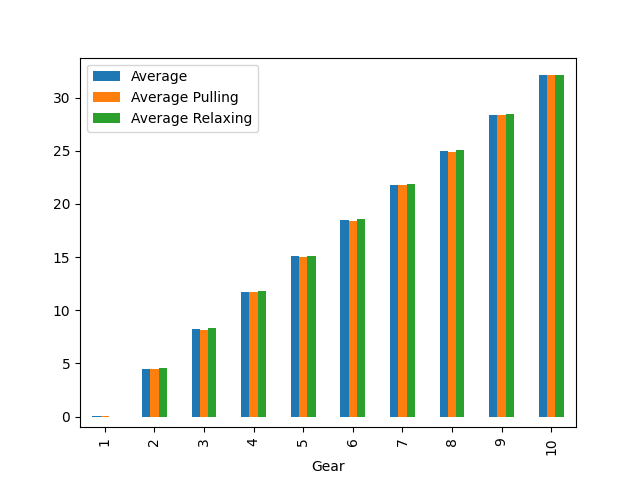
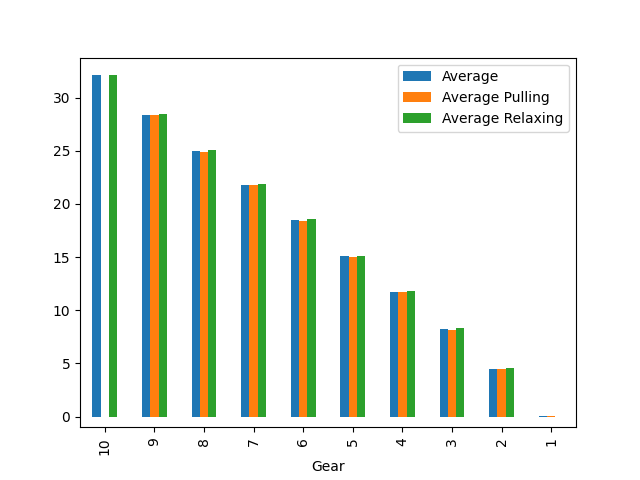
More charts

diff --git a/1-analyze_shifter.py b/1-analyze_shifter.py
@@ -67,9 +67,9 @@ def analyze(input_file, out_folder):
 
   # Plot Averages
 
-  gear_averages = df.groupby(["Gear"])["NormalizedMeasurement"].mean().rename("Average")
-  pulling_gear_averages = df[df["Direction"] == 'Pulling'].groupby(["Gear"])["NormalizedMeasurement"].mean().rename("Average Pulling")
-  relaxing_gear_averages = df[df["Direction"] == 'Relaxing'].groupby(["Gear"])["NormalizedMeasurement"].mean().rename("Average Relaxing")
+  gear_averages = df.groupby(["Gear"], sort=False)["NormalizedMeasurement"].mean().rename("Average")
+  pulling_gear_averages = df[df["Direction"] == 'Pulling'].groupby(["Gear"], sort=False)["NormalizedMeasurement"].mean().rename("Average Pulling")
+  relaxing_gear_averages = df[df["Direction"] == 'Relaxing'].groupby(["Gear"], sort=False)["NormalizedMeasurement"].mean().rename("Average Relaxing")
 
   avgs = pd.DataFrame([gear_averages, pulling_gear_averages, relaxing_gear_averages]).T
 
@@ -80,9 +80,9 @@ def analyze(input_file, out_folder):
 
   # Plot Stdev
 
-  gear_stdev = df.groupby(["Gear"])["NormalizedMeasurement"].std().rename("Std Dev")
-  pulling_gear_stdev = df[df["Direction"] == 'Pulling'].groupby(["Gear"])["NormalizedMeasurement"].std().rename("Std Dev Pulling")
-  relaxing_gear_stdev = df[df["Direction"] == 'Relaxing'].groupby(["Gear"])["NormalizedMeasurement"].std().rename("Std Dev Relaxing")
+  gear_stdev = df.groupby(["Gear"], sort=False)["NormalizedMeasurement"].std().rename("Std Dev")
+  pulling_gear_stdev = df[df["Direction"] == 'Pulling'].groupby(["Gear"], sort=False)["NormalizedMeasurement"].std().rename("Std Dev Pulling")
+  relaxing_gear_stdev = df[df["Direction"] == 'Relaxing'].groupby(["Gear"], sort=False)["NormalizedMeasurement"].std().rename("Std Dev Relaxing")
 
   avgs = pd.DataFrame([gear_stdev, pulling_gear_stdev, relaxing_gear_stdev]).T
 
@@ -91,8 +91,7 @@ def analyze(input_file, out_folder):
   plt.savefig(f"{out_folder}/meas_stdev.png")
 
   # Diff between relaxing and pulling averages
-  relaxing_pulling_diffs = df[df["Direction"] == "Relaxing"].groupby(["Gear"])["NormalizedMeasurement"].mean() \
-                          - df[df["Direction"] == "Pulling"].groupby(["Gear"])["NormalizedMeasurement"].mean()
+  relaxing_pulling_diffs = relaxing_gear_averages - pulling_gear_averages
 
   plt.clf()
   relaxing_pulling_diffs.plot.bar()
@@ -103,7 +102,7 @@ def analyze(input_file, out_folder):
   # Besides, here we only care about differences, not absolute values
   md = df.groupby(["Run"], sort=False)
 
-  gear_step_df = md.apply(lambda d: pd.DataFrame(dict(
+  shifts_df = md.apply(lambda d: pd.DataFrame(dict(
     [(header, d[header].iloc[:-1])
      for header in row_headers[:first_gear_row_index]
      if header != "Run"]+
@@ -115,20 +114,49 @@ def analyze(input_file, out_folder):
 
   #TODO: diff between pulling and relaxing, average pulling, average relaxing, 95% confidence interval
 
-  gb = gear_step_df.groupby(["GearStep"], sort=False)["Shift"].mean()
+  # Plot Shift Averages
 
-  # Calculate averages
-  averages = gear_step_df.groupby(["GearStep"], sort=False)["Shift"].mean()
-  stdev = gear_step_df.groupby(["GearStep"], sort=False)["Shift"].std()
-  print(averages[1:-1])
-  cable_pull = np.mean(averages[1:-1])
+  shift_averages = shifts_df.groupby(["GearStep"], sort=False)["Shift"].mean()
+  pulling_shift_averages = shifts_df[shifts_df["Direction"] == 'Pulling'].groupby(["GearStep"], sort=False)["Shift"].mean().rename("Average Pulling")
+  relaxing_shift_averages = shifts_df[shifts_df["Direction"] == 'Relaxing'].groupby(["GearStep"], sort=False)["Shift"].mean().rename("Average Relaxing")
+
+  shift_avgs_df = pd.DataFrame([shift_averages, pulling_shift_averages, relaxing_shift_averages]).T
+
+  plt.clf()
+  shift_avgs_df.plot.bar()
+  plt.savefig(f"{out_folder}/shift_avgs.png")
+
+  # Plot Shift Std Dev
+
+  shift_stdev = shifts_df.groupby(["GearStep"], sort=False)["Shift"].std()
+  pulling_shift_stdev = shifts_df[shifts_df["Direction"] == 'Pulling'].groupby(["GearStep"], sort=False)["Shift"].std().rename("Average Pulling")
+  relaxing_shift_stdev = shifts_df[shifts_df["Direction"] == 'Relaxing'].groupby(["GearStep"], sort=False)["Shift"].std().rename("Average Relaxing")
+
+  shift_stdevs_df = pd.DataFrame([shift_stdev, pulling_shift_stdev, relaxing_shift_stdev]).T
+
+  plt.clf()
+  shift_stdevs_df.plot.bar()
+  plt.savefig(f"{out_folder}/shift_stdev.png")
+
+  # Plot Shift Differences
+
+  shift_relaxing_pulling_diffs = relaxing_shift_averages - pulling_shift_averages
+
+  plt.clf()
+  shift_relaxing_pulling_diffs.plot.bar()
+  plt.savefig(f"{out_folder}/shift_diffs.png")
+  
+  ###
+
+  print(shift_averages[1:-1])
+  cable_pull = np.mean(shift_averages[1:-1])
 
   print(cable_pull)
 
   # TODO: generate cable pull graph
 
   return {
-    "shiftSpacings": averages.to_list(),
+    "shiftSpacings": shift_averages.to_list(),
     "cablePull": cable_pull
   }
   
